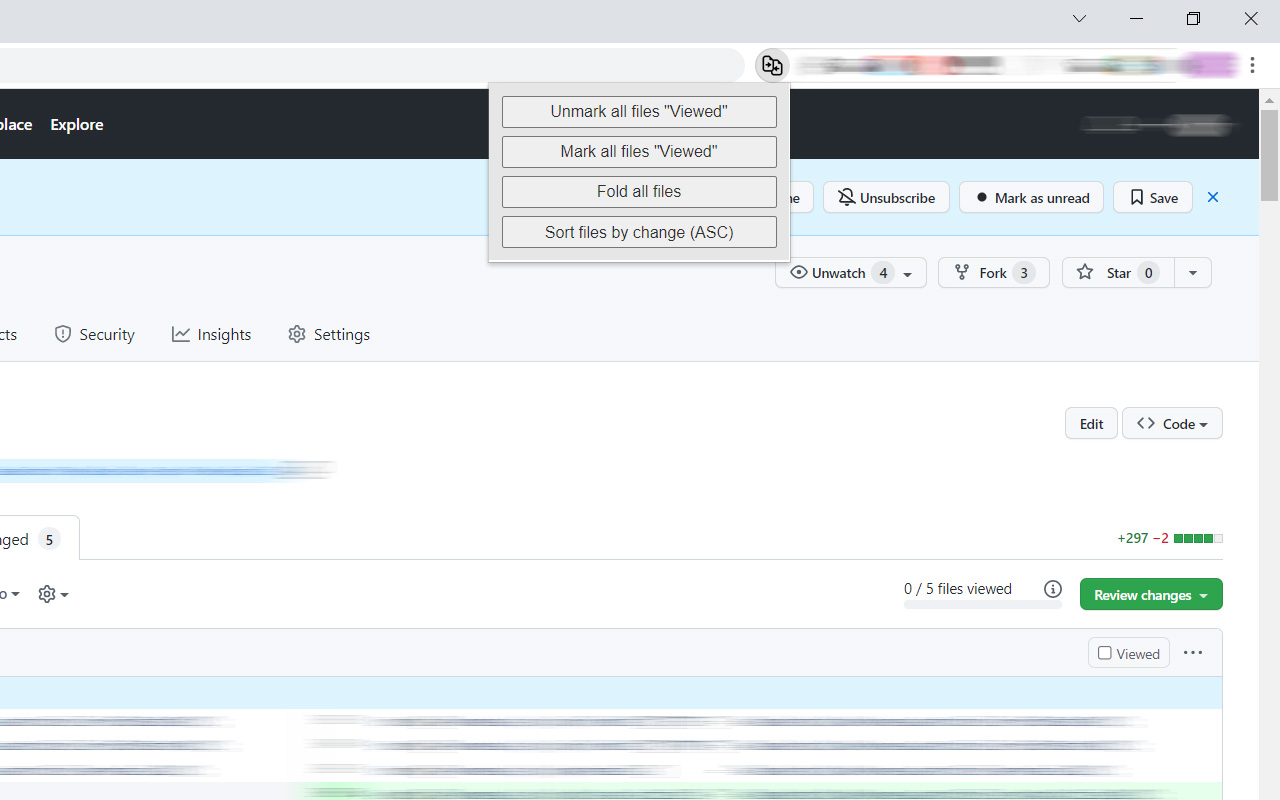
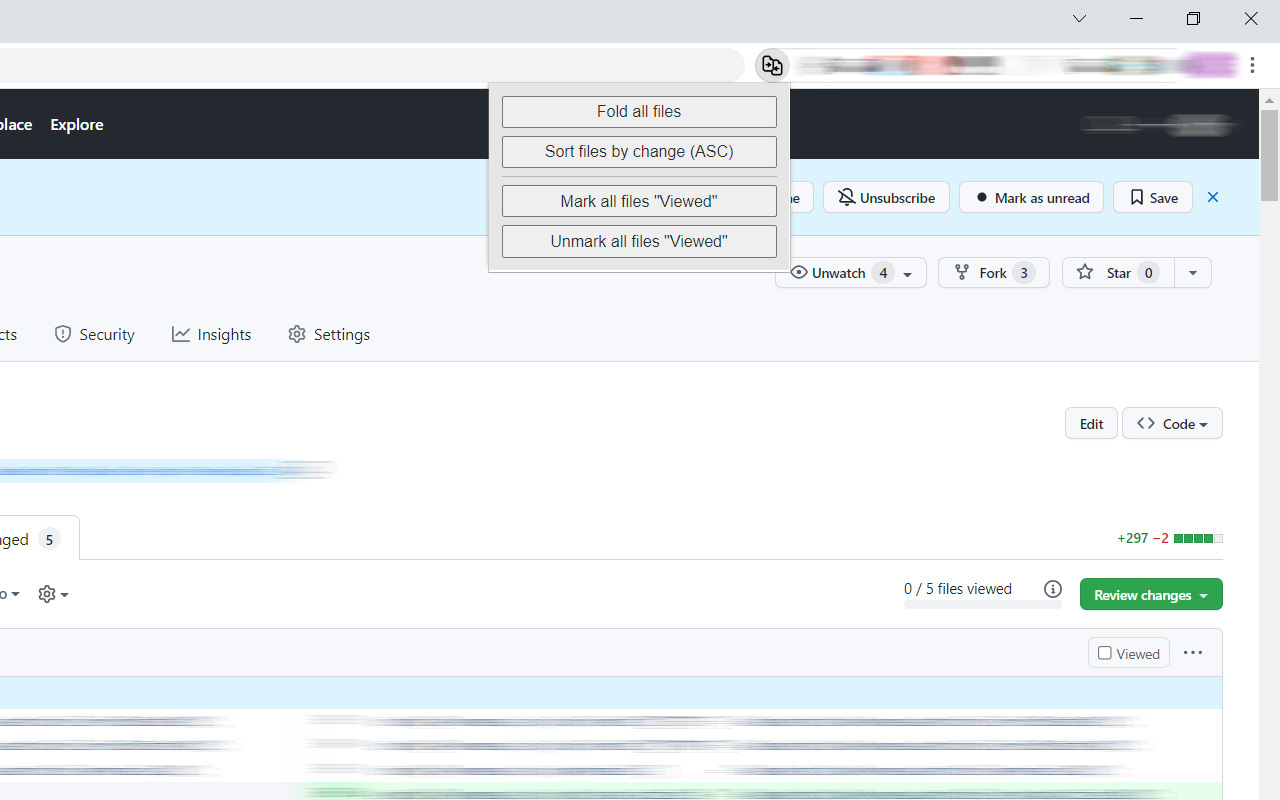
pull/commit detection

Changed region(s): [[0.375, 0.125, 0.625, 0.3438]]

diff --git a/package/popup.js b/package/popup.js
@@ -1,16 +1,44 @@
+let alertEl   = null;
+let isError   = false;
+let activeTab = null;
+let isPull    = false;
+let isCommit  = false;
+let pageType  = null;
+
+let buttons = {
+    fold   : null,
+    sort   : null,
+    mark   : null,
+    unmark : null,
+};
+
+function handleError(error) {
+    isError = error;
+    alertEl.innerHTML = "<b>Error</b>: " + error;
+    alertEl.hidden = false;
+    alertEl.nextElementSibling.classList.add("disabled");
+}
+
+function sendMessage(message) {
+    if (activeTab) {
+        chrome.tabs.sendMessage(activeTab.id, message);
+    }
+}
+
+// https://github.com/XXX/XXX/pull/92/files
+// https://github.com/XXX/XXX/pull/92/commits/XXX
+// https://github.com/XXX/XXX/commit/XXX
+
+let patterns = {
+    pull        : /^https:\/\/(?:www)?github.com\/\w+\/\w+\/pull\/\d+\/files/,
+    pullCommit  : /^https:\/\/(?:www)?github.com\/\w+\/\w+\/pull\/\d+\/commits\/\w+/,
+    commit      : /^https:\/\/(?:www)?github.com\/\w+\/\w+\/commit\/\w+/,
+};
+
 window.addEventListener("load", function () {
     
-    let alertEl = document.querySelector("p.alert");
-    let isError = false;
+    alertEl = document.querySelector("p.alert");
     
-    function handleError(error) {
-        isError = error;
-        alertEl.innerHTML = "<b>Error</b>: " + error;
-        alertEl.hidden = false;
-        alertEl.nextElementSibling.classList.add("disabled");
-    }
-    
-    let activeTab = null;
     chrome.tabs.query({active: true, currentWindow: true}, function (tabs) {
         activeTab = tabs[0];
     });
@@ -21,17 +49,12 @@ window.addEventListener("load", function () {
             return;
         }
         
-        // https://github.com/XXX/XXX/pull/92/files
-        // https://github.com/XXX/XXX/commit/2878a22b97c301a401a1c78ca7ca079a51ceb0e9
-        
-        let patterns = {
-            pull : /^https:\/\/(?:www)?github.com\/\w+\/\w+\/pull\/\d+\/files/,
-            commit : /^https:\/\/(?:www)?github.com\/\w+\/\w+\/commit\/\d+/,
-        };
-        
-        let isPull = patterns.pull.test(activeTab.url);
-        
+        isPull = patterns.pull.test(activeTab.url);
         if (!isPull) {
+            isCommit = patterns.pullCommit.test(activeTab.url) || patterns.commit.test(activeTab.url);
+        }
+        
+        if (!isPull && !isCommit) {
             handleError("Invalid target page/url.");
             return;
         }
@@ -44,21 +67,28 @@ window.addEventListener("load", function () {
             }
         });
         
-        function sendMessage(message) {
-            if (activeTab) {
-                chrome.tabs.sendMessage(activeTab.id, message);
-            }
+        if (isError) {
+            return;
         }
         
-        let buttons = {
-            unmark : document.querySelector("button#unmark"),
-            mark   : document.querySelector("button#mark"),
-            fold   : document.querySelector("button#fold"),
-            sort   : document.querySelector("button#sort"),
-        };
+        buttons.fold   = document.querySelector("button#fold");
+        buttons.sort   = document.querySelector("button#sort");
+        buttons.mark   = document.querySelector("button#mark");
+        buttons.unmark = document.querySelector("button#unmark");
         
-        for (let button of Object.values(buttons)) {
+        if (isCommit) {
+            buttons.mark.classList.add("disabled");
+            buttons.unmark.classList.add("disabled");
+        }
+        
+        [buttons.fold, buttons.sort].forEach(button => {
             button.addEventListener("click", () => sendMessage(button.id));
+        });
+        
+        if (isPull) {
+            [buttons.mark, buttons.unmark].forEach(button => {
+                button.addEventListener("click", () => sendMessage(button.id));
+            });
         }
         
     }, 100);

diff --git a/package/content.js b/package/content.js
@@ -1,23 +1,3 @@
-function unmarkFiles() {
-    document.querySelectorAll(
-        "#files input[type=checkbox].js-reviewed-checkbox"
-    ).forEach(cb => {
-        if (cb.checked) {
-            cb.click();
-        }
-    });
-}
-
-function markFiles() {
-    document.querySelectorAll(
-        "#files input[type=checkbox].js-reviewed-checkbox"
-    ).forEach(cb => {
-        if (!cb.checked) {
-            cb.click();
-        }
-    });
-}
-
 function foldFiles() {
     document.querySelectorAll(
         "#files .file-info > button"
@@ -54,6 +34,26 @@ function sortFiles() {
     files.forEach(file => fileLists[0].append(file));
 }
 
+function markFiles() {
+    document.querySelectorAll(
+        "#files input[type=checkbox].js-reviewed-checkbox"
+    ).forEach(cb => {
+        if (!cb.checked) {
+            cb.click();
+        }
+    });
+}
+
+function unmarkFiles() {
+    document.querySelectorAll(
+        "#files input[type=checkbox].js-reviewed-checkbox"
+    ).forEach(cb => {
+        if (cb.checked) {
+            cb.click();
+        }
+    });
+}
+
 // console.log("GitHub Diff extension script is executed.");
 
 chrome.runtime.onMessage.addListener(
@@ -63,10 +63,10 @@ chrome.runtime.onMessage.addListener(
             return;
         }
         switch (request) {
-            case "unmark" : unmarkFiles(); break;
-            case "mark"   : markFiles();   break;
             case "fold"   : foldFiles();   break;
             case "sort"   : sortFiles();   break;
+            case "mark"   : markFiles();   break;
+            case "unmark" : unmarkFiles(); break;
         }
     }
 );

diff --git a/package/styles.css b/package/styles.css
@@ -21,6 +21,13 @@ body {
 #container {
     font-size: 0.8em;
 }
+.alert {
+    margin-bottom: 0.5em;
+    background-color: lightgoldenrodyellow;
+    padding: 0.4em 0.5em 0.2em;
+    border-radius: 0.2em;
+    border: 1px solid hsla(0, 0%, 0%, 0.2);
+}
 #buttons {
     display: flex;
     flex-direction: column;
@@ -38,10 +45,14 @@ body {
     pointer-events: none;
     user-select: none;
 }
-.alert {
-    margin-bottom: 0.5em;
-    background-color: lightgoldenrodyellow;
-    padding: 0.4em 0.5em 0.2em;
-    border-radius: 0.2em;
-    border: 1px solid hsla(0, 0%, 0%, 0.2);
+#buttons button.disabled {
+    opacity: 0.5;
+    cursor: not-allowed;
+    pointer-events: none;
+    user-select: none;
+    cursor: not-allowed;
+}
+#buttons hr {
+    border: none;
+    border-bottom: 1px solid hsla(0, 0%, 0%, 0.2);
 }

diff --git a/package/popup.html b/package/popup.html
@@ -11,10 +11,11 @@
     <p class="alert" hidden>Lorem ipsum</p>
     
     <div id="buttons">
-        <button id="unmark">Unmark all files "Viewed"</button>
-        <button id="mark">Mark all files "Viewed"</button>
         <button id="fold">Fold all files</button>
         <button id="sort">Sort files by change (ASC)</button>
+        <hr>
+        <button id="mark">Mark all files "Viewed"</button>
+        <button id="unmark">Unmark all files "Viewed"</button>
     </div>
     
 </div>
